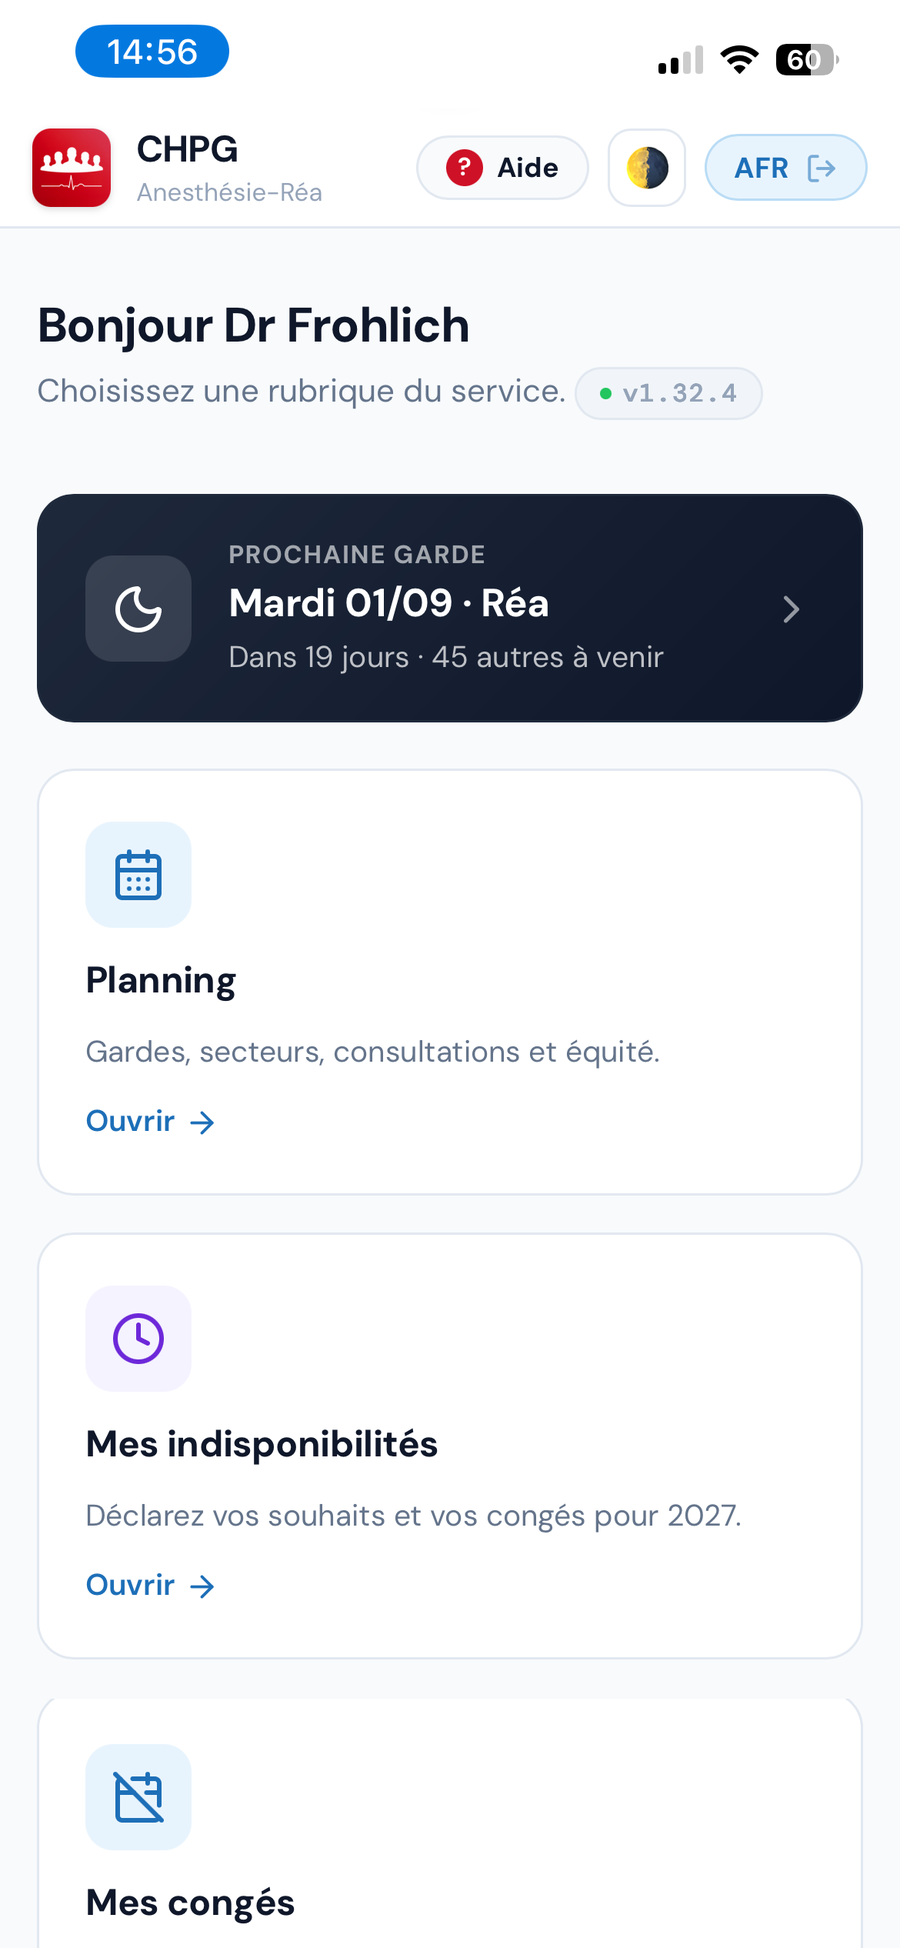
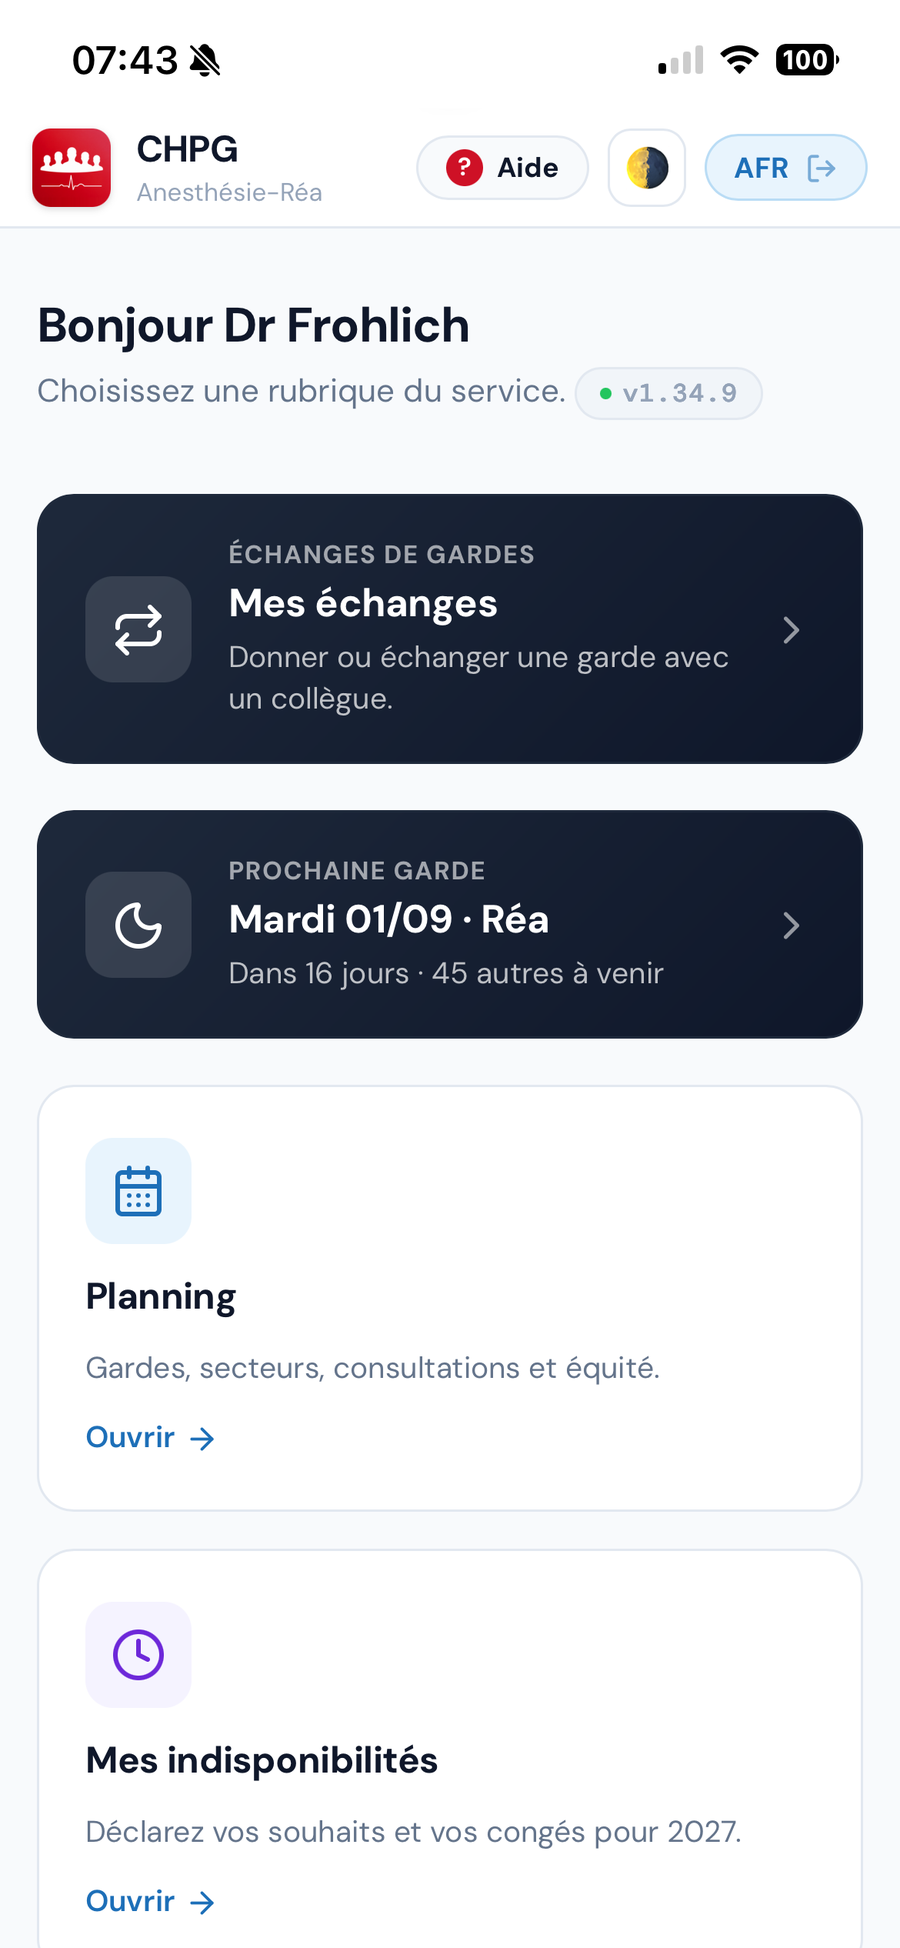
Capture d'accueil a jour (carte Echanges) + la diapo nomme Mes echanges
La capture projetee au staff datait d'avant l'ouverture des echanges : la salle aurait
vu une carte absente de l'image. Nouvelle capture (900x1948, format inchange, aucun
decalage de mise en page).

La liste des rubriques de la diapo n'enumerait pas Mes echanges alors que la carte est
desormais en tete d'ecran : ligne ajoutee en premier, et note d'orateur completee pour
rester bref ici — le circuit complet est le clou de la diapo de fin.

Aucune page versionnee touchee : pas de montee de version.

diff --git a/docs/presentation-staff.html b/docs/presentation-staff.html
@@ -728,7 +728,7 @@ mark.hl{color:inherit;background:linear-gradient(rgba(206,17,38,.17),rgba(206,17
   <p class="sub" style="margin-top:3vh;font-size:.88em;color:var(--ink-3)">Exemple fictif, effacé après le staff. Le vrai planning&nbsp;: novembre.</p>
 </section>
 
-<section class="slide s2" data-notes="Diapo de fin de parcours : le public a déjà le portail ouvert depuis le début. Montrer l'écran, laisser deux secondes, puis nommer les rubriques à la voix en pointant. NE PAS s'attarder sur le CR d'anesthésie ni sur le module liberal : hors sujet pour ce staff. Insister sur Mes indisponibilites, qui sera la seule action demandee en octobre. La tuile Mes indisponibilites n'apparait que pendant la campagne. Enchainer sur la veille biblio.">
+<section class="slide s2" data-notes="Diapo de fin de parcours : le public a déjà le portail ouvert depuis le début. Montrer l'écran, laisser deux secondes, puis nommer les rubriques à la voix en pointant. NE PAS s'attarder sur le CR d'anesthésie ni sur le module liberal : hors sujet pour ce staff. Nommer Mes echanges EN PREMIER (la carte est en tete d'ecran) mais rester bref : le circuit complet est le clou de la diapo de fin, ne pas le devoiler ici. Insister sur Mes indisponibilites, qui sera la seule action demandee en octobre. La tuile Mes indisponibilites n'apparait que pendant la campagne. Enchainer sur la veille biblio.">
   <div class="eyebrow">Dans votre portail</div>
   <h2>Les rubriques du portail</h2>
   <div style="display:flex;align-items:center;gap:4vw;margin-top:1.5vh">
@@ -736,6 +736,7 @@ mark.hl{color:inherit;background:linear-gradient(rgba(206,17,38,.17),rgba(206,17
          style="height:76vh;width:auto;border-radius:18px;box-shadow:0 16px 44px rgba(15,23,42,.20);flex:0 0 auto">
     <div style="flex:1 1 auto;font-size:clamp(13px,1.35vw,18px);line-height:1.35">
       <p class="sub" style="margin:0 0 2vh 0">Votre prochaine garde en tête de page, puis les rubriques du service.</p>
+      <div style="display:flex;gap:10px;align-items:baseline;margin-bottom:.9vh"><b style="min-width:11.5em;color:var(--ink)">Mes échanges</b><span style="color:var(--ink-3)">donner ou échanger une garde avec un collègue</span></div>
       <div style="display:flex;gap:10px;align-items:baseline;margin-bottom:.9vh"><b style="min-width:11.5em;color:var(--ink)">Planning</b><span style="color:var(--ink-3)">gardes, secteurs, consultations, équité</span></div>
       <div style="display:flex;gap:10px;align-items:baseline;margin-bottom:.9vh"><b style="min-width:11.5em;color:var(--ink)">Mes indisponibilités</b><span style="color:var(--ink-3)">congés et souhaits de l'année</span></div>
       <div style="display:flex;gap:10px;align-items:baseline;margin-bottom:.9vh"><b style="min-width:11.5em;color:var(--ink)">Mes congés</b><span style="color:var(--ink-3)">compteurs et périodes posées</span></div>
